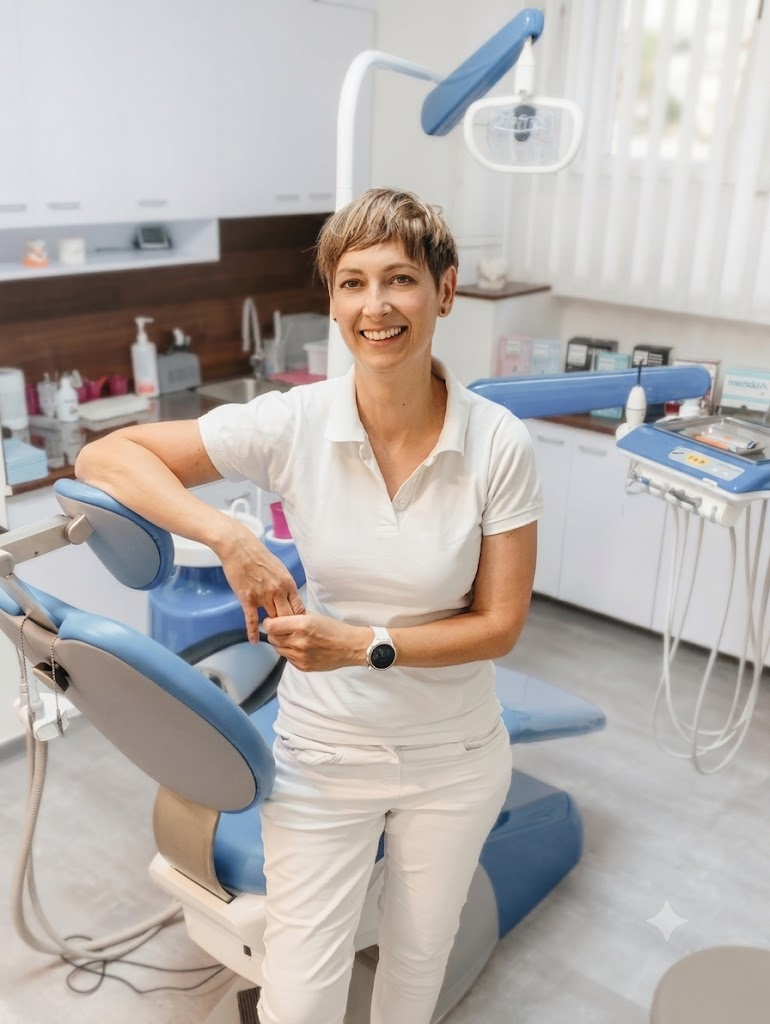
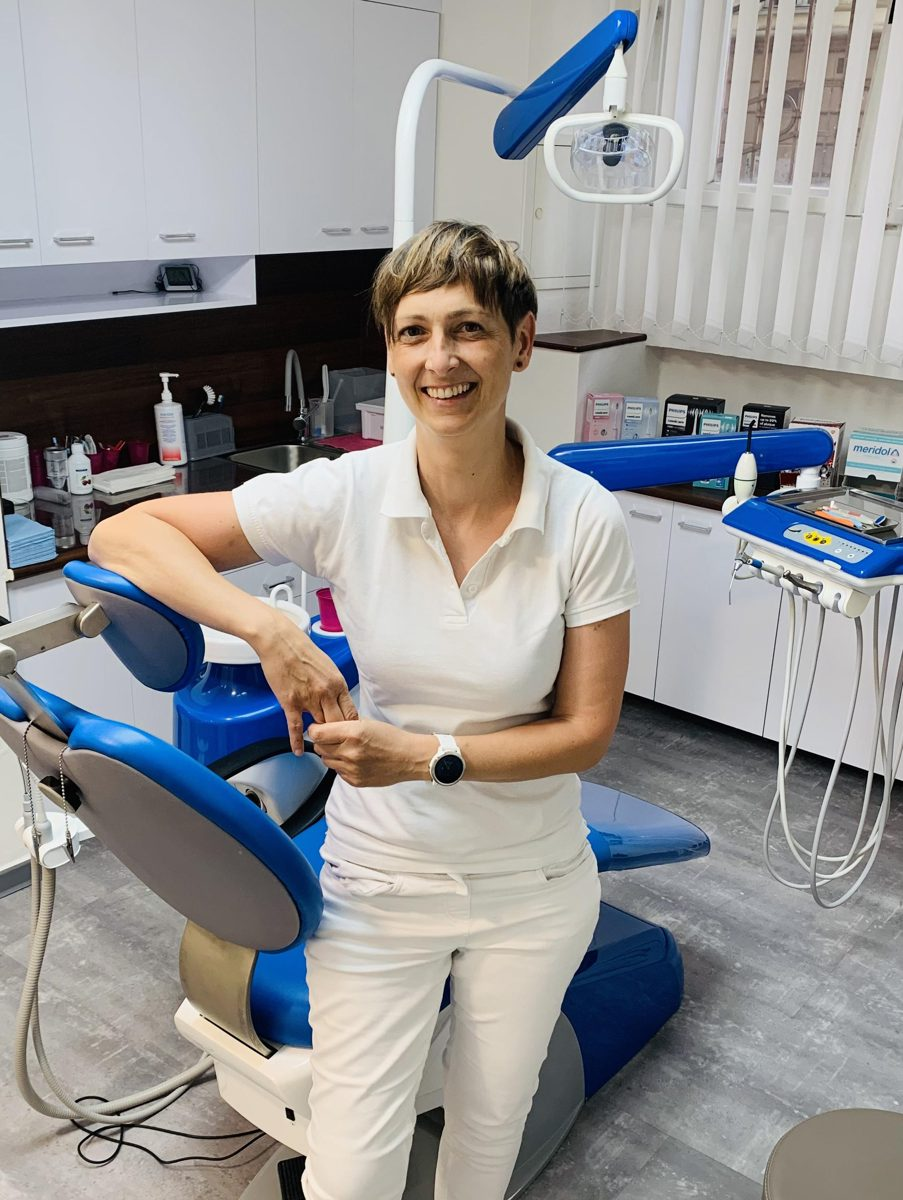
Add files via upload

diff --git a/index.html b/index.html
@@ -111,9 +111,6 @@
         <div class="hero__photo">
           <img src="assets/img/hero.jpg" alt="Zářivý zdravý úsměv – dentální hygiena Letná">
         </div>
-        <div class="floaty floaty--1"><span class="chip">Air Flow</span></div>
-        <div class="floaty floaty--2"><span class="chip">Bělení Pure Whitening</span></div>
-        <div class="floaty floaty--3"><span class="chip">Šetrné ošetření</span></div>
       </div>
     </div>
   </div>
